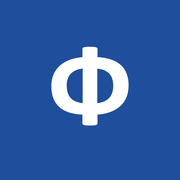
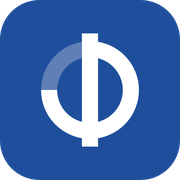
Фавикон Финдикатора: ico, svg, 32, 120, 180, 192

diff --git a/index.html b/index.html
@@ -6,10 +6,12 @@
 <title>Финдикатор – управленческий учёт для компаний на 1С</title>
 <meta name="description" content="Финдикатор превращает выгрузки из 1С в управленческие отчёты: ОДДС, ОПУ с валовой прибылью и EBITDA, баланс, платёжный календарь, бюджет и дашборд собственника. Для одной компании или группы компаний. Разовая покупка, без обязательной подписки.">
 <link rel="stylesheet" href="/style.css?v=10">
-<link rel="icon" href="/favicon.ico?v=2" sizes="16x16 32x32 48x48">
-<link rel="icon" type="image/png" sizes="32x32" href="/favicon.png?v=2">
-<link rel="icon" type="image/png" sizes="120x120" href="/favicon-120.png?v=2">
-<link rel="apple-touch-icon" href="/apple-touch-icon.png?v=2">
+<link rel="icon" href="/favicon.ico?v=3" sizes="16x16 32x32 48x48">
+<link rel="icon" type="image/svg+xml" href="/favicon.svg?v=3">
+<link rel="icon" type="image/png" sizes="32x32" href="/favicon.png?v=3">
+<link rel="icon" type="image/png" sizes="120x120" href="/favicon-120.png?v=3">
+<link rel="icon" type="image/png" sizes="192x192" href="/favicon-192.png?v=3">
+<link rel="apple-touch-icon" href="/apple-touch-icon.png?v=3">
 <link rel="canonical" href="https://findikator.ru/">
 <meta property="og:type" content="website">
 <meta property="og:url" content="https://findikator.ru/">

diff --git a/resheniya/sobstvenniku.html b/resheniya/sobstvenniku.html
@@ -6,10 +6,12 @@
 <title>Финдикатор для собственника бизнеса – прибыль, деньги и прогноз</title>
 <meta name="description" content="Финдикатор для собственника: реальная прибыль, куда уходят деньги, прогноз остатка на 13 недель и сколько свободных денег можно направить собственнику без кассового разрыва. Без погружения в учёт.">
 <link rel="stylesheet" href="/style.css?v=10">
-<link rel="icon" href="/favicon.ico?v=2" sizes="16x16 32x32 48x48">
-<link rel="icon" type="image/png" sizes="32x32" href="/favicon.png?v=2">
-<link rel="icon" type="image/png" sizes="120x120" href="/favicon-120.png?v=2">
-<link rel="apple-touch-icon" href="/apple-touch-icon.png?v=2">
+<link rel="icon" href="/favicon.ico?v=3" sizes="16x16 32x32 48x48">
+<link rel="icon" type="image/svg+xml" href="/favicon.svg?v=3">
+<link rel="icon" type="image/png" sizes="32x32" href="/favicon.png?v=3">
+<link rel="icon" type="image/png" sizes="120x120" href="/favicon-120.png?v=3">
+<link rel="icon" type="image/png" sizes="192x192" href="/favicon-192.png?v=3">
+<link rel="apple-touch-icon" href="/apple-touch-icon.png?v=3">
 <link rel="canonical" href="https://findikator.ru/resheniya/sobstvenniku.html">
 <meta property="og:type" content="website">
 <meta property="og:url" content="https://findikator.ru/resheniya/sobstvenniku.html">

diff --git a/resheniya/finansistu.html b/resheniya/finansistu.html
@@ -6,10 +6,12 @@
 <title>Финдикатор для финансового директора и бухгалтера – управленческий учёт без ручной сборки</title>
 <meta name="description" content="Финдикатор для финансиста: загрузка карточек 51 и 50 из 1С, правила разноски, дата начисления из текста платежа, контроль учёта, расшифровка отчётов, бюджет, закрытие года.">
 <link rel="stylesheet" href="/style.css?v=10">
-<link rel="icon" href="/favicon.ico?v=2" sizes="16x16 32x32 48x48">
-<link rel="icon" type="image/png" sizes="32x32" href="/favicon.png?v=2">
-<link rel="icon" type="image/png" sizes="120x120" href="/favicon-120.png?v=2">
-<link rel="apple-touch-icon" href="/apple-touch-icon.png?v=2">
+<link rel="icon" href="/favicon.ico?v=3" sizes="16x16 32x32 48x48">
+<link rel="icon" type="image/svg+xml" href="/favicon.svg?v=3">
+<link rel="icon" type="image/png" sizes="32x32" href="/favicon.png?v=3">
+<link rel="icon" type="image/png" sizes="120x120" href="/favicon-120.png?v=3">
+<link rel="icon" type="image/png" sizes="192x192" href="/favicon-192.png?v=3">
+<link rel="apple-touch-icon" href="/apple-touch-icon.png?v=3">
 <link rel="canonical" href="https://findikator.ru/resheniya/finansistu.html">
 <meta property="og:type" content="website">
 <meta property="og:url" content="https://findikator.ru/resheniya/finansistu.html">

diff --git a/resheniya/gruppe-kompaniy.html b/resheniya/gruppe-kompaniy.html
@@ -6,10 +6,12 @@
 <title>Управленческий учёт группы компаний на 1С – Финдикатор</title>
 <meta name="description" content="Финдикатор для группы компаний: сводные ОПУ, ОДДС и баланс по группе или по одной компании, внутригрупповые платежи исключаются автоматически, платёжный календарь по всей группе.">
 <link rel="stylesheet" href="/style.css?v=10">
-<link rel="icon" href="/favicon.ico?v=2" sizes="16x16 32x32 48x48">
-<link rel="icon" type="image/png" sizes="32x32" href="/favicon.png?v=2">
-<link rel="icon" type="image/png" sizes="120x120" href="/favicon-120.png?v=2">
-<link rel="apple-touch-icon" href="/apple-touch-icon.png?v=2">
+<link rel="icon" href="/favicon.ico?v=3" sizes="16x16 32x32 48x48">
+<link rel="icon" type="image/svg+xml" href="/favicon.svg?v=3">
+<link rel="icon" type="image/png" sizes="32x32" href="/favicon.png?v=3">
+<link rel="icon" type="image/png" sizes="120x120" href="/favicon-120.png?v=3">
+<link rel="icon" type="image/png" sizes="192x192" href="/favicon-192.png?v=3">
+<link rel="apple-touch-icon" href="/apple-touch-icon.png?v=3">
 <link rel="canonical" href="https://findikator.ru/resheniya/gruppe-kompaniy.html">
 <meta property="og:type" content="website">
 <meta property="og:url" content="https://findikator.ru/resheniya/gruppe-kompaniy.html">

diff --git a/vozmozhnosti/index.html b/vozmozhnosti/index.html
@@ -6,10 +6,12 @@
 <title>Возможности Финдикатора – управленческий учёт на основе 1С</title>
 <meta name="description" content="Что умеет Финдикатор: дашборд собственника, ОПУ, ОДДС, управленческий баланс, платёжный календарь, бюджет и план-факт, загрузка из 1С, автоматическая разноска, контроль учёта, группа компаний.">
 <link rel="stylesheet" href="/style.css?v=10">
-<link rel="icon" href="/favicon.ico?v=2" sizes="16x16 32x32 48x48">
-<link rel="icon" type="image/png" sizes="32x32" href="/favicon.png?v=2">
-<link rel="icon" type="image/png" sizes="120x120" href="/favicon-120.png?v=2">
-<link rel="apple-touch-icon" href="/apple-touch-icon.png?v=2">
+<link rel="icon" href="/favicon.ico?v=3" sizes="16x16 32x32 48x48">
+<link rel="icon" type="image/svg+xml" href="/favicon.svg?v=3">
+<link rel="icon" type="image/png" sizes="32x32" href="/favicon.png?v=3">
+<link rel="icon" type="image/png" sizes="120x120" href="/favicon-120.png?v=3">
+<link rel="icon" type="image/png" sizes="192x192" href="/favicon-192.png?v=3">
+<link rel="apple-touch-icon" href="/apple-touch-icon.png?v=3">
 <link rel="canonical" href="https://findikator.ru/vozmozhnosti/">
 <meta property="og:type" content="website">
 <meta property="og:url" content="https://findikator.ru/vozmozhnosti/">

diff --git a/poleznoe/kak-chitat-odds.html b/poleznoe/kak-chitat-odds.html
@@ -6,10 +6,12 @@
 <title>Как читать ОДДС: пять вопросов к отчёту о движении денежных средств</title>
 <meta name="description" content="Как читать отчёт о движении денежных средств: операционный поток, инвестиции, кредиты, остатки по счетам и сравнение с планом. Простыми словами, с примерами.">
 <link rel="stylesheet" href="/style.css?v=10">
-<link rel="icon" href="/favicon.ico?v=2" sizes="16x16 32x32 48x48">
-<link rel="icon" type="image/png" sizes="32x32" href="/favicon.png?v=2">
-<link rel="icon" type="image/png" sizes="120x120" href="/favicon-120.png?v=2">
-<link rel="apple-touch-icon" href="/apple-touch-icon.png?v=2">
+<link rel="icon" href="/favicon.ico?v=3" sizes="16x16 32x32 48x48">
+<link rel="icon" type="image/svg+xml" href="/favicon.svg?v=3">
+<link rel="icon" type="image/png" sizes="32x32" href="/favicon.png?v=3">
+<link rel="icon" type="image/png" sizes="120x120" href="/favicon-120.png?v=3">
+<link rel="icon" type="image/png" sizes="192x192" href="/favicon-192.png?v=3">
+<link rel="apple-touch-icon" href="/apple-touch-icon.png?v=3">
 <link rel="canonical" href="https://findikator.ru/poleznoe/kak-chitat-odds.html">
 <meta property="og:type" content="website">
 <meta property="og:url" content="https://findikator.ru/poleznoe/kak-chitat-odds.html">

diff --git a/poleznoe/upravlencheskiy-balans.html b/poleznoe/upravlencheskiy-balans.html
@@ -6,10 +6,12 @@
 <title>Управленческий баланс: зачем он собственнику и чем отличается от бухгалтерского</title>
 <meta name="description" content="Что такое управленческий баланс, чем он отличается от бухгалтерского, что по нему видно собственнику и как его построить по данным 1С.">
 <link rel="stylesheet" href="/style.css?v=10">
-<link rel="icon" href="/favicon.ico?v=2" sizes="16x16 32x32 48x48">
-<link rel="icon" type="image/png" sizes="32x32" href="/favicon.png?v=2">
-<link rel="icon" type="image/png" sizes="120x120" href="/favicon-120.png?v=2">
-<link rel="apple-touch-icon" href="/apple-touch-icon.png?v=2">
+<link rel="icon" href="/favicon.ico?v=3" sizes="16x16 32x32 48x48">
+<link rel="icon" type="image/svg+xml" href="/favicon.svg?v=3">
+<link rel="icon" type="image/png" sizes="32x32" href="/favicon.png?v=3">
+<link rel="icon" type="image/png" sizes="120x120" href="/favicon-120.png?v=3">
+<link rel="icon" type="image/png" sizes="192x192" href="/favicon-192.png?v=3">
+<link rel="apple-touch-icon" href="/apple-touch-icon.png?v=3">
 <link rel="canonical" href="https://findikator.ru/poleznoe/upravlencheskiy-balans.html">
 <meta property="og:type" content="website">
 <meta property="og:url" content="https://findikator.ru/poleznoe/upravlencheskiy-balans.html">

diff --git a/vozmozhnosti/raznoska.html b/vozmozhnosti/raznoska.html
@@ -6,10 +6,12 @@
 <title>Автоматическая разноска платежей по статьям – Финдикатор</title>
 <meta name="description" content="Платежи из 1С раскладываются по статьям сами: правила по контрагенту и назначению платежа, 37 типовых правил, подсказки по истории и дата начисления из текста.">
 <link rel="stylesheet" href="/style.css?v=10">
-<link rel="icon" href="/favicon.ico?v=2" sizes="16x16 32x32 48x48">
-<link rel="icon" type="image/png" sizes="32x32" href="/favicon.png?v=2">
-<link rel="icon" type="image/png" sizes="120x120" href="/favicon-120.png?v=2">
-<link rel="apple-touch-icon" href="/apple-touch-icon.png?v=2">
+<link rel="icon" href="/favicon.ico?v=3" sizes="16x16 32x32 48x48">
+<link rel="icon" type="image/svg+xml" href="/favicon.svg?v=3">
+<link rel="icon" type="image/png" sizes="32x32" href="/favicon.png?v=3">
+<link rel="icon" type="image/png" sizes="120x120" href="/favicon-120.png?v=3">
+<link rel="icon" type="image/png" sizes="192x192" href="/favicon-192.png?v=3">
+<link rel="apple-touch-icon" href="/apple-touch-icon.png?v=3">
 <link rel="canonical" href="https://findikator.ru/vozmozhnosti/raznoska.html">
 <meta property="og:type" content="website">
 <meta property="og:url" content="https://findikator.ru/vozmozhnosti/raznoska.html">

diff --git a/vozmozhnosti/gruppa-kompaniy.html b/vozmozhnosti/gruppa-kompaniy.html
@@ -6,10 +6,12 @@
 <title>Управленческий учёт группы компаний – Финдикатор</title>
 <meta name="description" content="Сводная управленческая отчётность по группе компаний: ОПУ, ОДДС и баланс по группе или по одной компании, платежи внутри группы исключаются автоматически.">
 <link rel="stylesheet" href="/style.css?v=10">
-<link rel="icon" href="/favicon.ico?v=2" sizes="16x16 32x32 48x48">
-<link rel="icon" type="image/png" sizes="32x32" href="/favicon.png?v=2">
-<link rel="icon" type="image/png" sizes="120x120" href="/favicon-120.png?v=2">
-<link rel="apple-touch-icon" href="/apple-touch-icon.png?v=2">
+<link rel="icon" href="/favicon.ico?v=3" sizes="16x16 32x32 48x48">
+<link rel="icon" type="image/svg+xml" href="/favicon.svg?v=3">
+<link rel="icon" type="image/png" sizes="32x32" href="/favicon.png?v=3">
+<link rel="icon" type="image/png" sizes="120x120" href="/favicon-120.png?v=3">
+<link rel="icon" type="image/png" sizes="192x192" href="/favicon-192.png?v=3">
+<link rel="apple-touch-icon" href="/apple-touch-icon.png?v=3">
 <link rel="canonical" href="https://findikator.ru/vozmozhnosti/gruppa-kompaniy.html">
 <meta property="og:type" content="website">
 <meta property="og:url" content="https://findikator.ru/vozmozhnosti/gruppa-kompaniy.html">

diff --git a/poleznoe/instrukciya.html b/poleznoe/instrukciya.html
@@ -6,10 +6,12 @@
 <title>Инструкция по настройке и работе – Финдикатор</title>
 <meta name="description" content="Как настроить Финдикатор и работать с ним каждый день: загрузка из 1С, справочник статей, правила разноски, отчёты, платёжный календарь, группа компаний, закрытие года.">
 <link rel="stylesheet" href="/style.css?v=10">
-<link rel="icon" href="/favicon.ico?v=2" sizes="16x16 32x32 48x48">
-<link rel="icon" type="image/png" sizes="32x32" href="/favicon.png?v=2">
-<link rel="icon" type="image/png" sizes="120x120" href="/favicon-120.png?v=2">
-<link rel="apple-touch-icon" href="/apple-touch-icon.png?v=2">
+<link rel="icon" href="/favicon.ico?v=3" sizes="16x16 32x32 48x48">
+<link rel="icon" type="image/svg+xml" href="/favicon.svg?v=3">
+<link rel="icon" type="image/png" sizes="32x32" href="/favicon.png?v=3">
+<link rel="icon" type="image/png" sizes="120x120" href="/favicon-120.png?v=3">
+<link rel="icon" type="image/png" sizes="192x192" href="/favicon-192.png?v=3">
+<link rel="apple-touch-icon" href="/apple-touch-icon.png?v=3">
 <link rel="canonical" href="https://findikator.ru/poleznoe/instrukciya.html">
 <meta property="og:type" content="website">
 <meta property="og:url" content="https://findikator.ru/poleznoe/instrukciya.html">

diff --git a/poleznoe/kassovyy-razryv.html b/poleznoe/kassovyy-razryv.html
@@ -6,10 +6,12 @@
 <title>Платёжный календарь: как увидеть кассовый разрыв заранее</title>
 <meta name="description" content="Как построить платёжный календарь на 13 недель, какие платежи в него вносить, как задать минимальный остаток и что делать, если впереди кассовый разрыв.">
 <link rel="stylesheet" href="/style.css?v=10">
-<link rel="icon" href="/favicon.ico?v=2" sizes="16x16 32x32 48x48">
-<link rel="icon" type="image/png" sizes="32x32" href="/favicon.png?v=2">
-<link rel="icon" type="image/png" sizes="120x120" href="/favicon-120.png?v=2">
-<link rel="apple-touch-icon" href="/apple-touch-icon.png?v=2">
+<link rel="icon" href="/favicon.ico?v=3" sizes="16x16 32x32 48x48">
+<link rel="icon" type="image/svg+xml" href="/favicon.svg?v=3">
+<link rel="icon" type="image/png" sizes="32x32" href="/favicon.png?v=3">
+<link rel="icon" type="image/png" sizes="120x120" href="/favicon-120.png?v=3">
+<link rel="icon" type="image/png" sizes="192x192" href="/favicon-192.png?v=3">
+<link rel="apple-touch-icon" href="/apple-touch-icon.png?v=3">
 <link rel="canonical" href="https://findikator.ru/poleznoe/kassovyy-razryv.html">
 <meta property="og:type" content="website">
 <meta property="og:url" content="https://findikator.ru/poleznoe/kassovyy-razryv.html">

diff --git a/poleznoe/baza-znaniy.html b/poleznoe/baza-znaniy.html
@@ -6,10 +6,12 @@
 <title>Статьи об управленческом учёте – Финдикатор</title>
 <meta name="description" content="Статьи об управленческом учёте простым языком: как читать ОДДС, чем ОПУ отличается от ОДДС, как не допустить кассового разрыва, зачем нужен управленческий баланс.">
 <link rel="stylesheet" href="/style.css?v=10">
-<link rel="icon" href="/favicon.ico?v=2" sizes="16x16 32x32 48x48">
-<link rel="icon" type="image/png" sizes="32x32" href="/favicon.png?v=2">
-<link rel="icon" type="image/png" sizes="120x120" href="/favicon-120.png?v=2">
-<link rel="apple-touch-icon" href="/apple-touch-icon.png?v=2">
+<link rel="icon" href="/favicon.ico?v=3" sizes="16x16 32x32 48x48">
+<link rel="icon" type="image/svg+xml" href="/favicon.svg?v=3">
+<link rel="icon" type="image/png" sizes="32x32" href="/favicon.png?v=3">
+<link rel="icon" type="image/png" sizes="120x120" href="/favicon-120.png?v=3">
+<link rel="icon" type="image/png" sizes="192x192" href="/favicon-192.png?v=3">
+<link rel="apple-touch-icon" href="/apple-touch-icon.png?v=3">
 <link rel="canonical" href="https://findikator.ru/poleznoe/baza-znaniy.html">
 <meta property="og:type" content="website">
 <meta property="og:url" content="https://findikator.ru/poleznoe/baza-znaniy.html">
